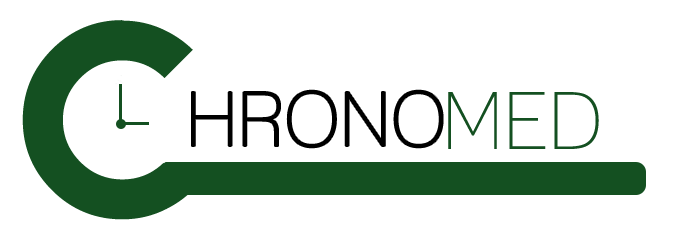
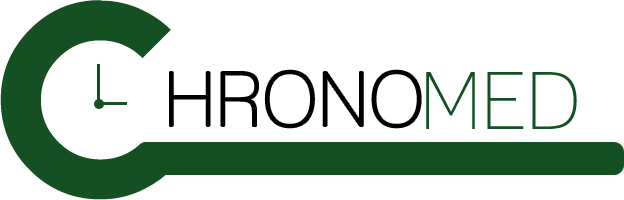
CSS

Changed region(s): [[0.0, 0.0, 1.0, 1.0], [0.1522, 0.33, 0.2131, 0.54]]

diff --git a/src/main/webapp/static/css/custom.css b/src/main/webapp/static/css/custom.css
@@ -1,23 +1,4 @@
 /* PINGENDO COMMENT DO NOT REMOVE */
-.form {
-    background: white;
-    -webkit-box-shadow: 0px 0px 33px 2px rgba(0, 0, 0, 0.75);
-    -moz-box-shadow: 0px 0px 33px 2px rgba(0, 0, 0, 0.75);
-    box-shadow: 0px 0px 33px 2px rgba(0, 0, 0, 0.75);
-}
-
-.signin-form {
-    padding: 20px;
-    background: #D8D8D8;
-}
-
-.signin-container {
-    background: white;
-    border-left: 1px solid gainsboro;
-    border-right: 1px solid gainsboro;
-    border-bottom: 1px solid gainsboro;
-    padding: 40px 50px 25px;
-}
 
 .white-container {
     background: white;
@@ -32,10 +13,7 @@
     background: #40834F;
 }
 
-.logo {
-    background: white;
-    max-height: 200px;
-}
+
 
 .team-row {
     margin-bottom: 25px;
@@ -87,9 +65,6 @@ input[type=number]::-webkit-outer-spin-button {
     margin-bottom: 0;
 }
 
-form {
-    margin: 0px;
-}
 
 textarea {
     resize: none;
@@ -187,4 +162,22 @@ textarea {
 
 .label-telefon {
     padding:.4em .6em .3em
+}
+
+.shadow-box {
+    background: white;
+    -webkit-box-shadow: 0 0 33px 2px rgba(0, 0, 0, 0.75);
+    -moz-box-shadow: 0 0 33px 2px rgba(0, 0, 0, 0.75);
+    box-shadow: 0 0 33px 2px rgba(0, 0, 0, 0.75);
+    padding-top:15px;
+}
+
+.signin-form {
+    background: white;
+    margin: 35px 20px;
+}
+
+.signin-logo {
+    max-height: 90px;
+    margin: 35px 20px;
 }
